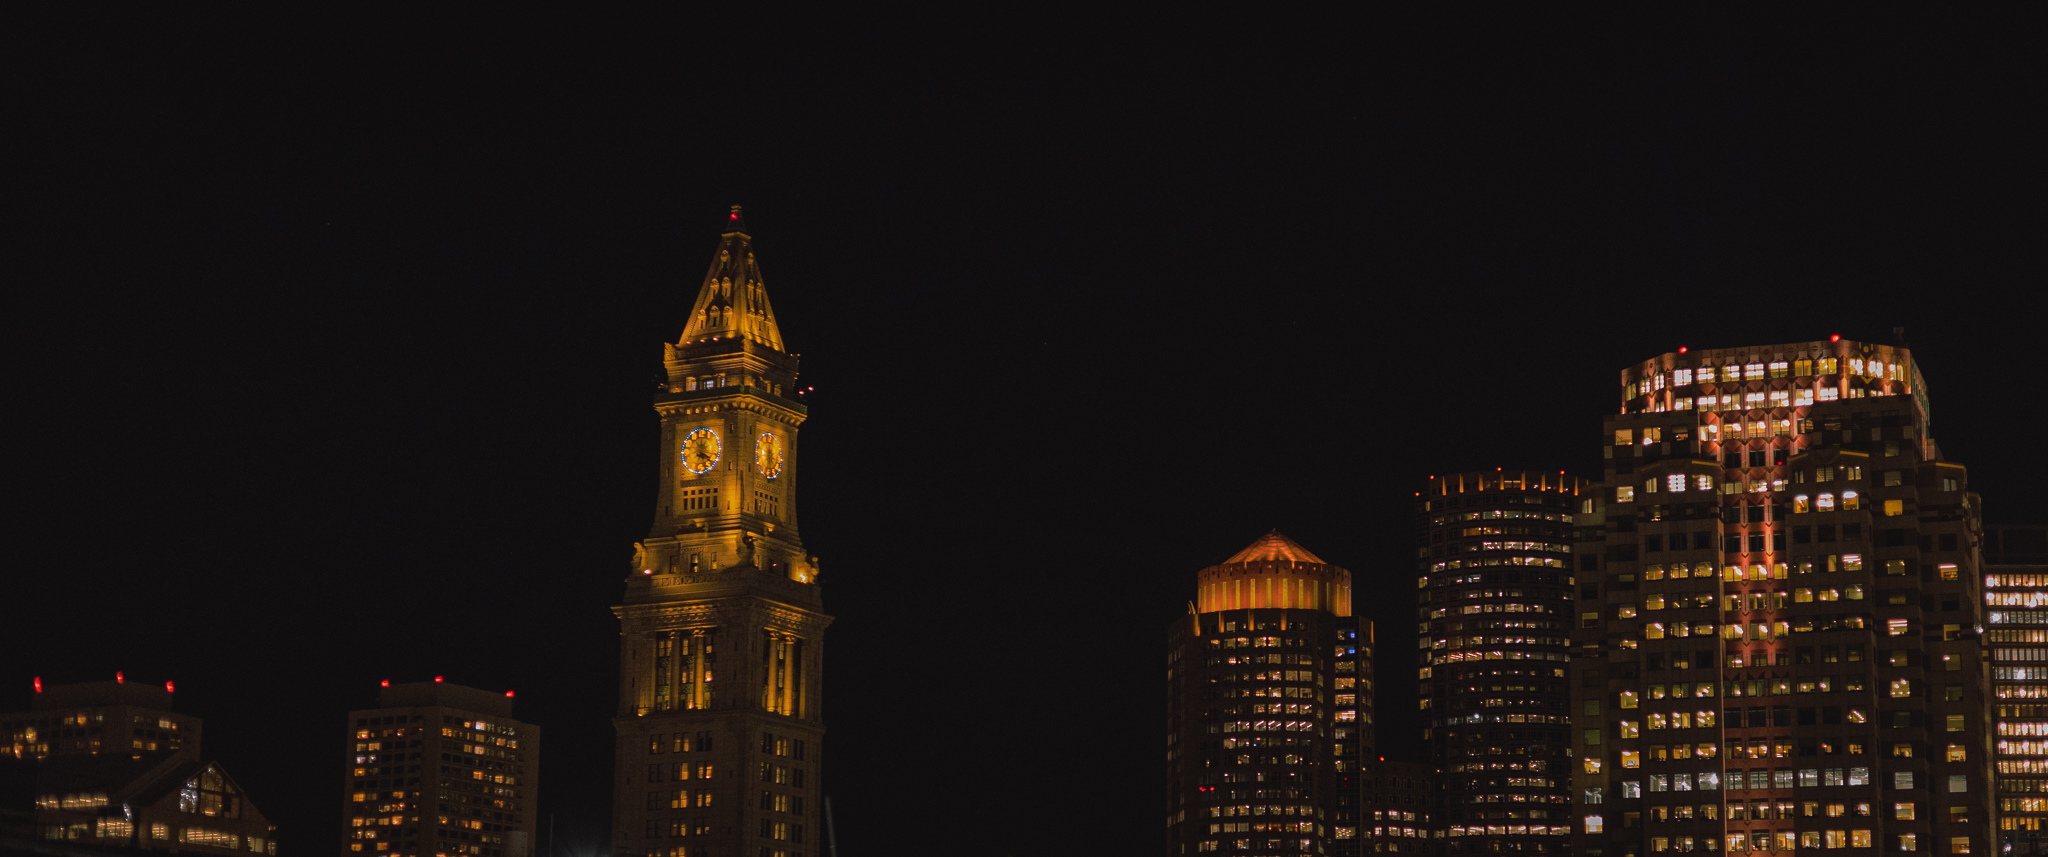
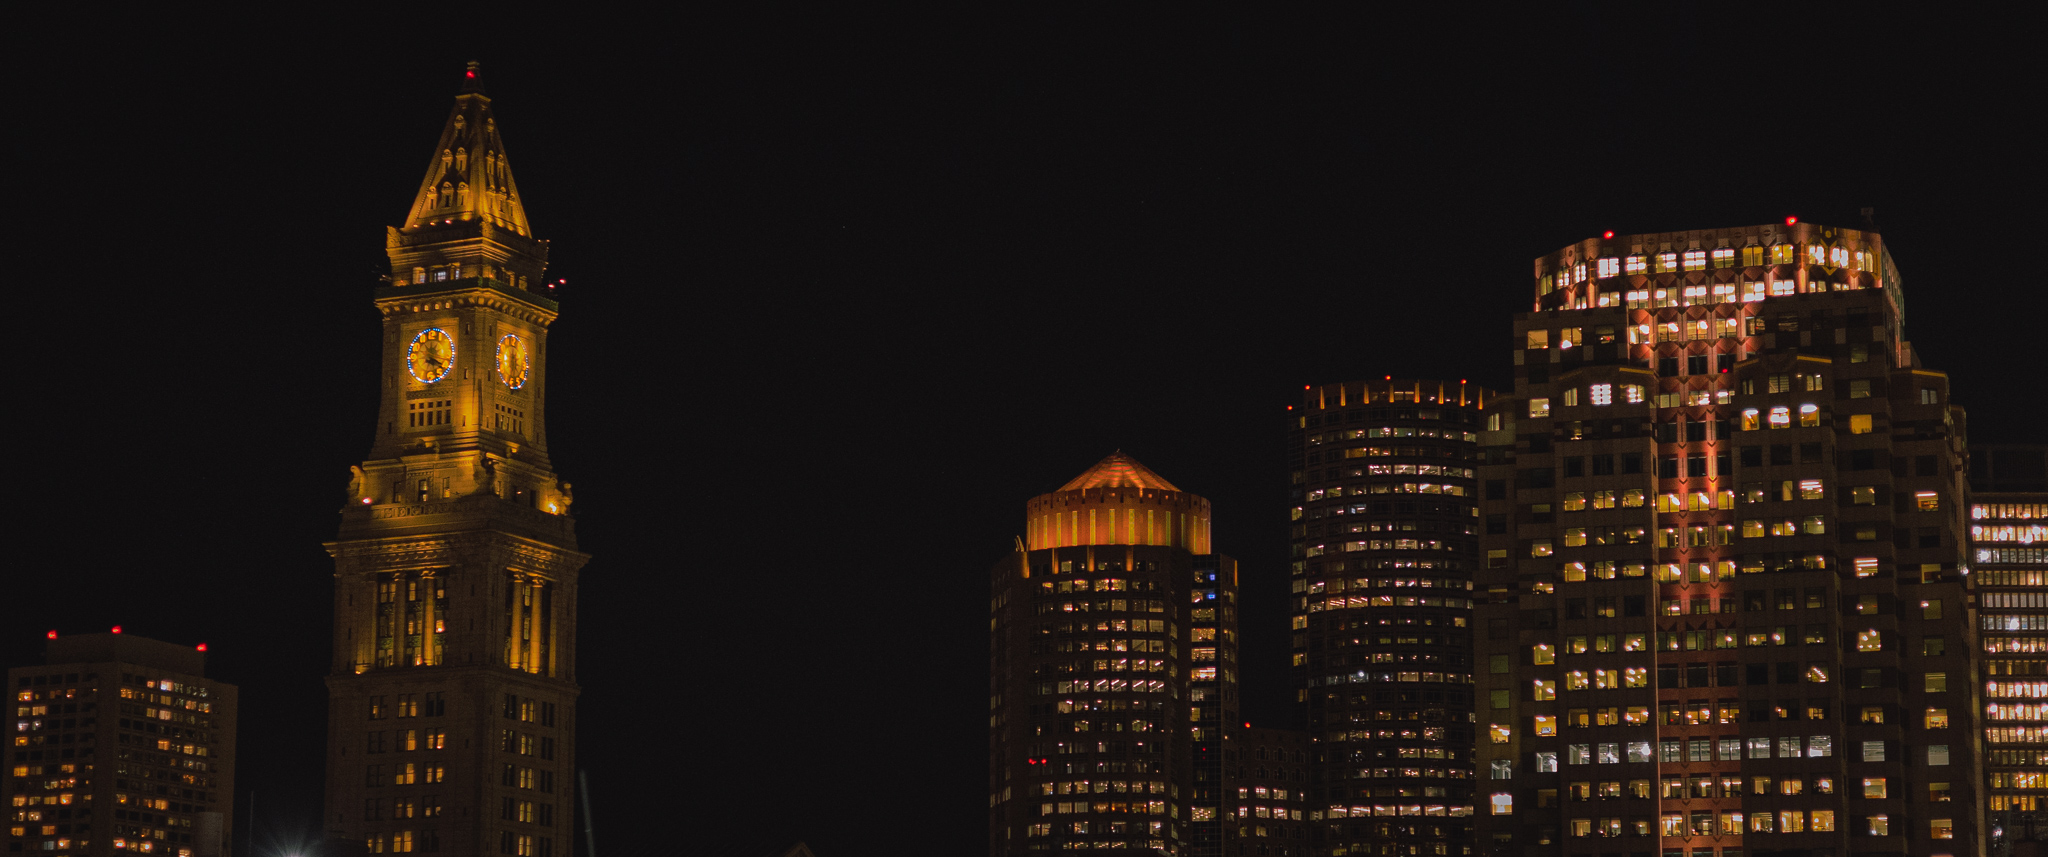
blvd

Changed region(s): [[0.5, 0.2427, 1.0, 1.0], [0.0, 0.091, 0.4062, 1.0], [0.3125, 0.9708, 0.3438, 1.0]]

diff --git a/channels/visuals/index.html b/channels/visuals/index.html
@@ -98,7 +98,7 @@
 <div style='font-size: 13px' align='center'>
     <i><b><a href="#backbay">backbay</a></b></i> <br> </div>
 <div style='font-size: 13px' align='center'>
-    <i><b><a href="#dawn">dawn</a></b></i> <br> </div>
+    <i><b><a href="#blvd">blvd</a></b></i> <br> </div>
 <div style='font-size: 13px' align='center'>
     <i><b><a href="#negative">negative</a></b></i> <br> </div>
 <div style='font-size: 13px' align='center'>
@@ -298,11 +298,14 @@
 <br><br><br><br></p>
 
 <p><br><br><br><br>
-<a id="dawn"></a></p>
+<a id="blvd"></a></p>
 
-<h2 id="dawn">dawn</h2>
+<h2 id="blvd">blvd</h2>
 
 <p><br><br>
+<a href="#" data-featherlight="../../images/visuals/39_bw.jpg">
+    <img src="../../images/visuals/39_bw_min.jpg" alt="" /></a>
+<img vspace="22">
 <a href="#" data-featherlight="../../images/visuals/39.jpg">
     <img src="../../images/visuals/39_min.jpg" alt="" /></a>
 <br><br>
@@ -345,9 +348,6 @@
 <img vspace="22">
 <a href="#" data-featherlight="../../images/visuals/21.jpg">
     <img src="../../images/visuals/21_min.jpg" alt="" /></a>
-<img vspace="22">
-<a href="#" data-featherlight="../../images/visuals/7.jpg">
-    <img src="../../images/visuals/7_min.jpg" alt="" /></a>
 <br><br>
 <div style='font-size: 12px' align='right'>
     <i><b><a href="#menu">back to top</a></b></i> <br>
